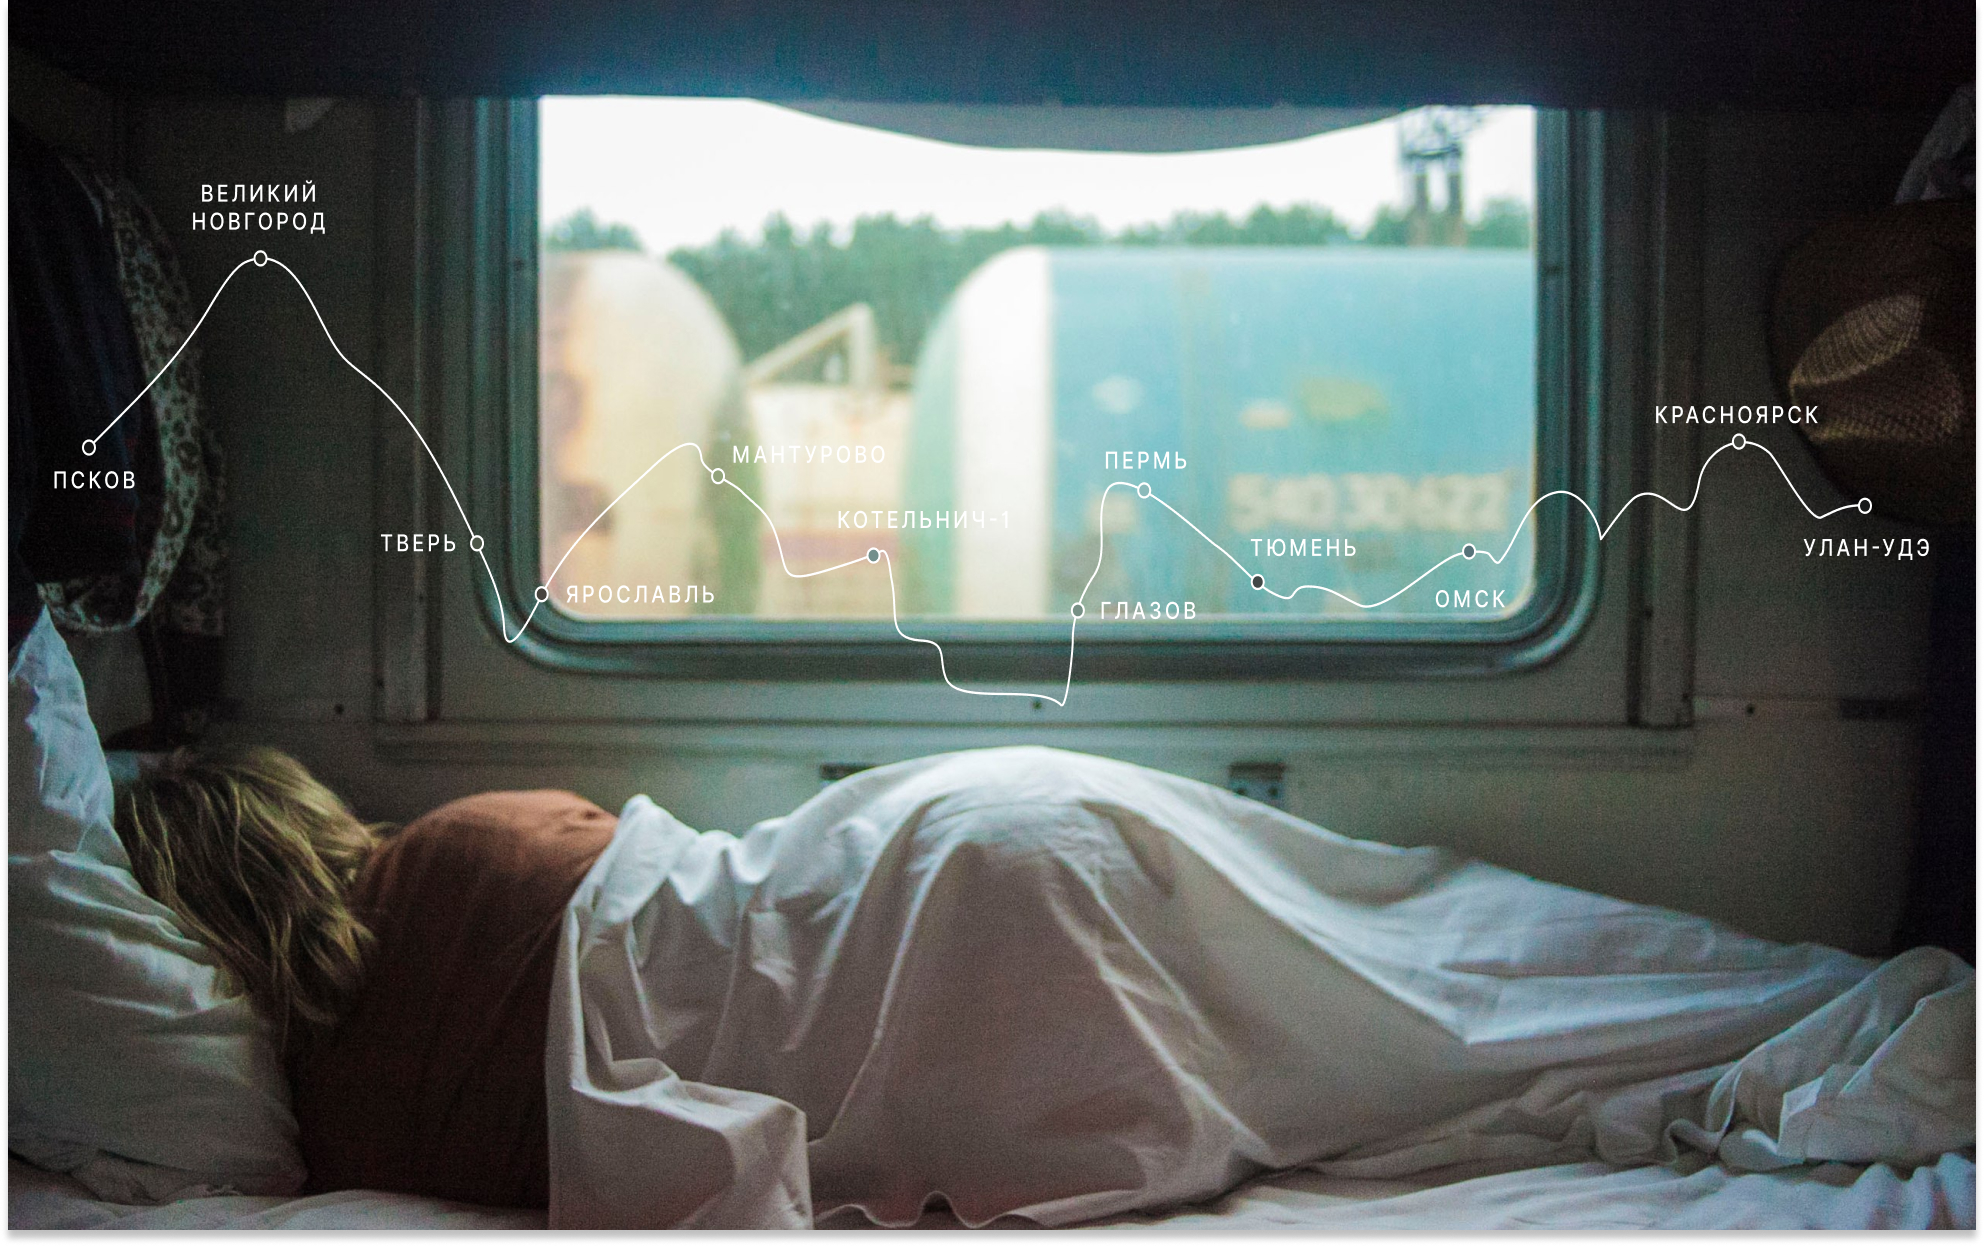
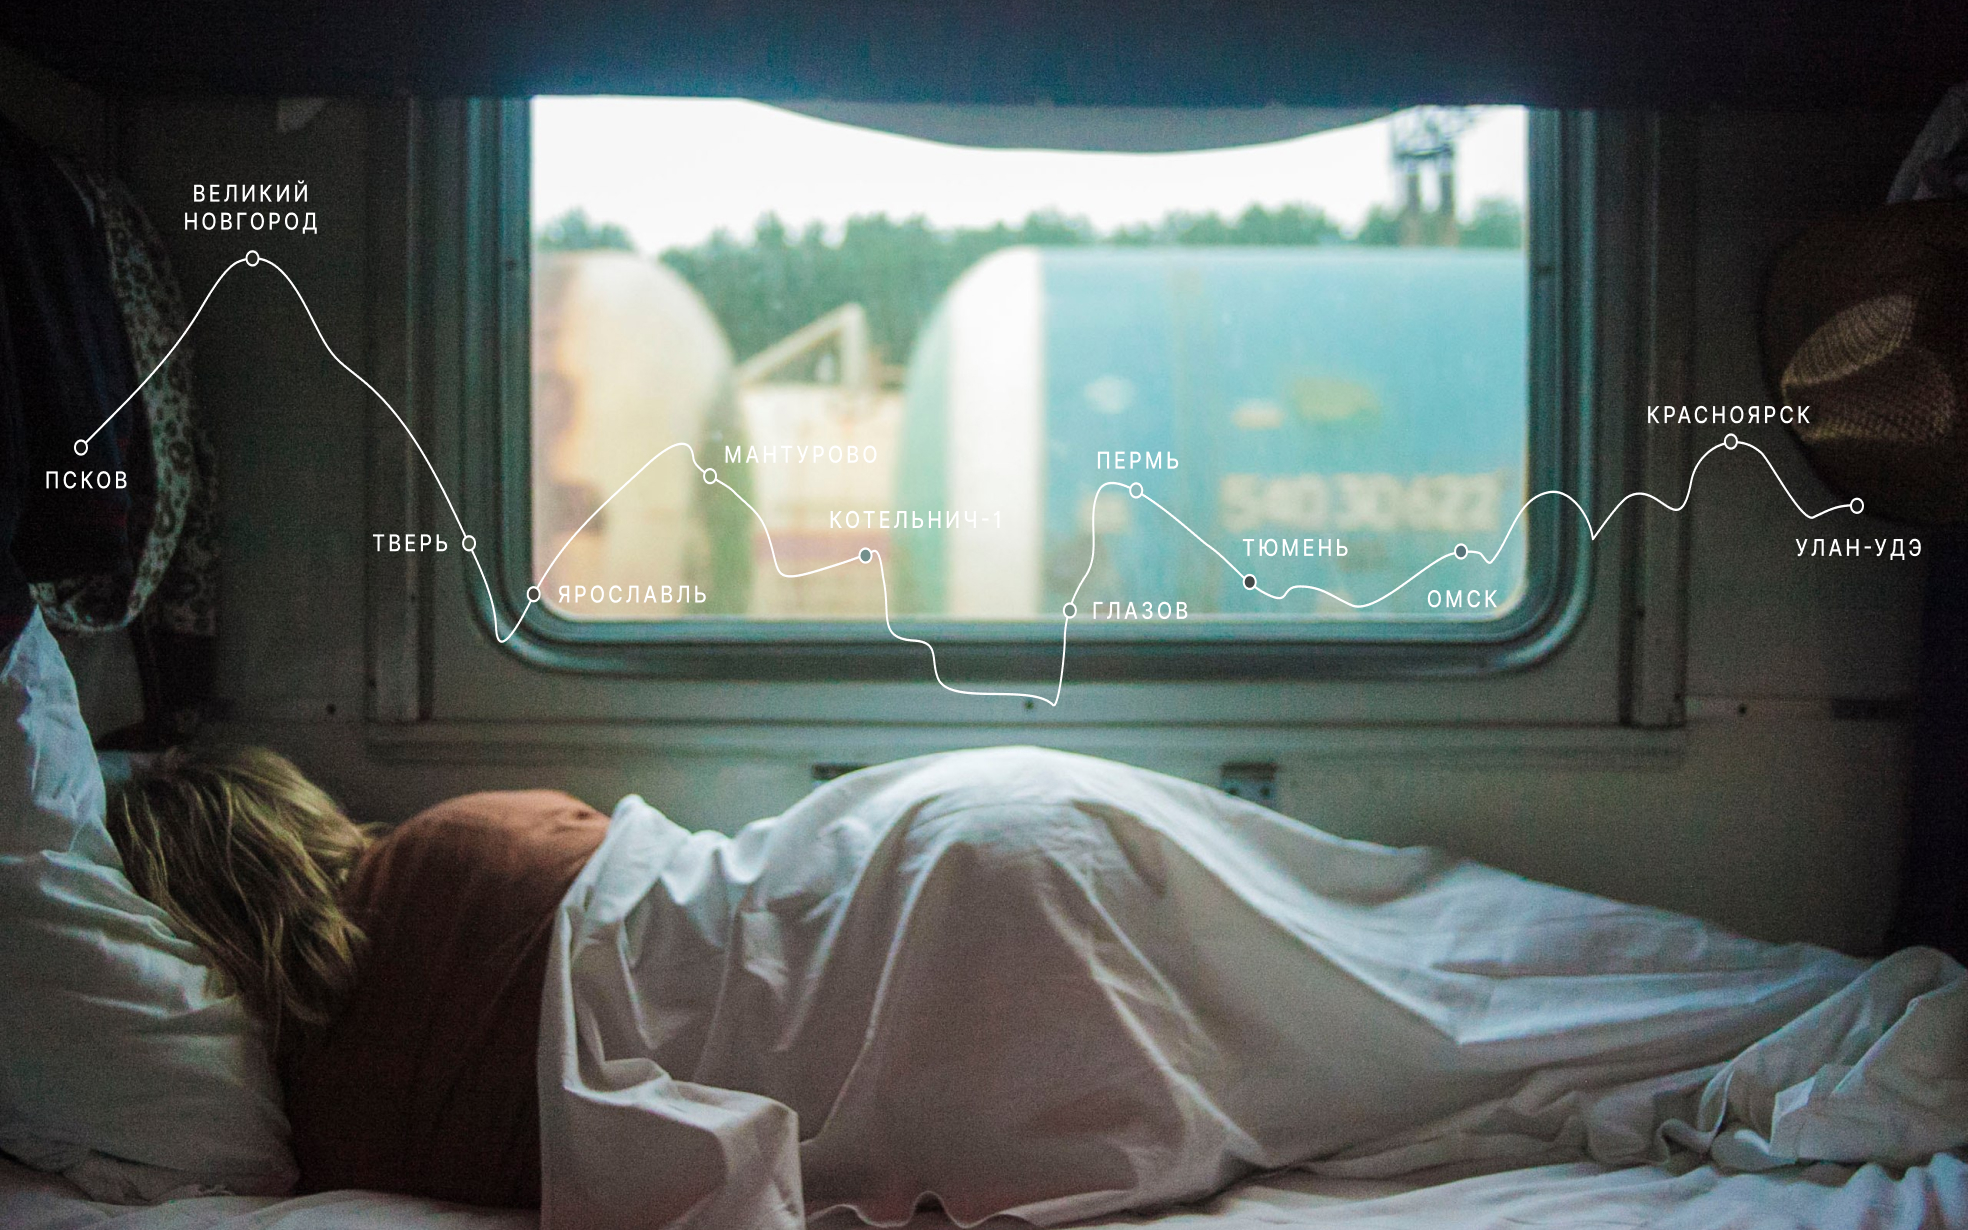
section intro

diff --git a/index.html b/index.html
@@ -29,18 +29,11 @@
           <p class="lead__subtitle">
             Настоящая страна не в выпусках новостей, а здесь.
           </p>
-          <div class="lead__images">
-            <img
-              class="lead__image"
-              src="./images/lead/kalegin-michail-179870-unsplash.jpg"
-              alt="Изображение пассажира в плацкарте"
-            />
-            <img
-              class="lead__image-route"
-              src="./images/lead/route.svg"
-              alt="Изображение маршрута"
-            />
-          </div>
+          <img
+            class="lead__image"
+            src="./images/lead/train.jpg"
+            alt="Изображение_пассажира_в_плацкарте"
+          />
           <p class="lead__caption">ваша полка — верхняя</p>
         </div>
         <!-- INTRO -->

diff --git a/pages/index.css b/pages/index.css
@@ -9,9 +9,7 @@
 @import "../blocks/content/content.css";
 @import "../blocks/lead/__title/lead__title.css";
 @import "../blocks/lead/__subtitle/lead__subtitle.css";
-@import "../blocks/lead/__images/lead__images.css";
 @import "../blocks/lead/__image/lead__image.css";
-@import "../blocks/lead/__image-route/lead__image-route.css";
 @import "../blocks/lead/__caption/lead__caption.css";
 @import "../blocks/intro/intro.css";
 @import "../blocks/intro/__list/intro__list.css";

diff --git a/blocks/lead/__image/lead__image.css b/blocks/lead/__image/lead__image.css
@@ -1,5 +1,8 @@
 .lead__image {
-  position: relative;
+  display: block;
   width: 100%;
+  max-width: 984px;
+  height: auto;
   filter: drop-shadow(0px 4px 4px rgba(0, 0, 0, 0.25));
+  margin: 0 auto;
 }

diff --git a/blocks/lead/__caption/lead__caption.css b/blocks/lead/__caption/lead__caption.css
@@ -3,7 +3,7 @@
   text-transform: uppercase;
   max-width: 984px;
   margin: 0 auto;
-  padding: 8px 0 0;
+  padding: 8px 48px 0;
   font-size: 10px;
   line-height: 1.4;
   font-weight: normal;

diff --git a/blocks/lead/__subtitle/lead__subtitle.css b/blocks/lead/__subtitle/lead__subtitle.css
@@ -5,7 +5,7 @@
   color: #fff;
   font-size: 30px;
   max-width: 640px;
-  line-height: 1.2;
-  font-weight: normal;
+  line-height: 1.1;
+  font-weight: 400;
   text-align: center;
 }

diff --git a/blocks/header/header.css b/blocks/header/header.css
@@ -1,7 +1,7 @@
 .header {
   display: flex;
   justify-content: space-between;
-  max-width: 1280px;
+  max-width: 1184px;
   margin: 0 auto;
   padding: 28px 48px 0;
   color: #fff;

diff --git a/blocks/intro/__title/intro__title.css b/blocks/intro/__title/intro__title.css
@@ -2,5 +2,7 @@
   font-style: normal;
   font-weight: 900;
   font-size: 54px;
-  line-height: 58px;
+  line-height: 1.1;
+  margin: 0 0 40px;
+  padding: 0;
 }

diff --git a/blocks/intro/__text/intro__text.css b/blocks/intro/__text/intro__text.css
@@ -1,3 +1,8 @@
 .intro__text {
   max-width: 690px;
+  font-size: 16px;
+  line-height: 1.63;
+  font-weight: normal;
+  padding: 0;
+  margin: 0 0 33px;
 }

diff --git a/blocks/lead/__title/lead__title.css b/blocks/lead/__title/lead__title.css
@@ -5,7 +5,7 @@
   color: #fff;
   max-width: 720px;
   font-size: 96px;
-  line-height: 1;
+  line-height: 1.04;
   font-weight: 900;
 
 }

diff --git a/blocks/intro/__list/intro__list.css b/blocks/intro/__list/intro__list.css
@@ -2,4 +2,7 @@
   margin: 0;
   padding: 0;
   list-style-type: none;
+  font-size: 12px;
+  line-height: 1.5;
+  font-weight: 700;
 }

diff --git a/blocks/intro/__conteiner/conteiner.css b/blocks/intro/__conteiner/conteiner.css
@@ -1,4 +1,5 @@
 .conteiner {
   max-width: 984px;
   margin: 0 auto;
+  padding: 92px 0 0;
 }

diff --git a/blocks/photo-grid/__item/photo-grid__item.css b/blocks/photo-grid/__item/photo-grid__item.css
@@ -1,0 +1,3 @@
+.photo-grid__item {
+
+}
